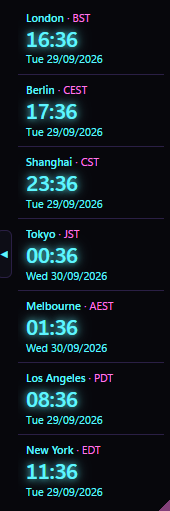
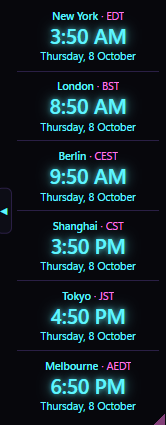
Bring the documents and the site up to the map-ordered clocks
The site shows the clocks west to east in new screenshots, with alt text and the home page card to match; ARCHITECTURE.md, TESTING.md and DECISIONS-TRADEOFFS.md are checked against the code; VERSION moves to the next minor and the site is stamped from it.

diff --git a/docs/index.html b/docs/index.html
@@ -46,7 +46,7 @@
     <div class="wrap hero">
         <div>
             <p class="eyebrow">
-                <span class="pill">v<!--VERSION-->2.9.0<!--/VERSION--></span>
+                <span class="pill">v<!--VERSION-->2.10.0<!--/VERSION--></span>
                 <span class="pill">Windows</span>
                 <span class="pill">macOS</span>
                 <span class="pill">Linux</span>
@@ -69,13 +69,13 @@
         <p class="kicker">A look</p>
         <h2>Every place, one glance.</h2>
         <figure class="shot-wide">
-            <img src="screenshots/screenshot.png" width="1171" height="753"
-                alt="TimeRibbon as a horizontal ribbon of analogue clocks in the Indigo colour scheme, dark, for London, Berlin, Shanghai, Tokyo, Melbourne, Los Angeles and New York, each with its zone abbreviation and its date in numbers, Tokyo and Melbourne a day ahead of the rest. Below it the sun map is pulled out: a world map lit where it is day and dark with city lights where it is night, each clock's city marked with a red dot and its name. The handle in its own lane at the ribbon's foot shows an upward arrow to put the map back; the resize grip sits in the ribbon's corner.">
+            <img src="screenshots/screenshot.png" width="862" height="572"
+                alt="TimeRibbon as a horizontal ribbon of analogue clocks in the Indigo colour scheme, dark, running west to east: New York, London, Berlin, Shanghai, Tokyo and Melbourne, each with its zone abbreviation and its date in words. Below it the sun map is pulled out: a world map lit where it is day and dark with city lights where it is night, each clock's city marked with a red dot and its name, the dots in the same order as the clocks above them. The handle in its own lane at the ribbon's foot shows an upward arrow to put the map back.">
         </figure>
         <div class="shot">
             <figure>
-                <img src="screenshots/screenshot2.png" width="170" height="511"
-                    alt="Seven places as small digital clocks on a vertical ribbon in the Neon colour scheme, glowing cyan times on near black: London, Berlin, Shanghai, Tokyo and Melbourne, with Tokyo and Melbourne already on the next day, then Los Angeles and New York. The sun map's handle waits at the ribbon's left side with its arrow pointing out; the resize grip sits in the bottom corner.">
+                <img src="screenshots/screenshot2.png" width="166" height="425"
+                    alt="Six places as small digital clocks on a vertical ribbon in the Neon colour scheme, glowing cyan 12-hour times centred in each cell on near black, west to east from the top: New York, London, Berlin, Shanghai, Tokyo and Melbourne. The sun map's handle waits at the ribbon's left side with its arrow pointing out; the resize grip sits in the bottom corner.">
             </figure>
             <div class="two-col">
                 <div class="card">
@@ -83,17 +83,18 @@
                     <ul>
                         <li><strong>Two looks, one ribbon:</strong> analogue in Indigo,
                             horizontal, with the sun map pulled out below it; small digital
-                            in Neon, vertical, its map put away. Style, colour and
+                            in Neon, vertical, 12-hour, its map put away. Style, colour and
                             orientation come from the menus or Settings; size from Settings; the
                             grip in the corner resizes the clocks by hand.</li>
                         <li><strong>The sun map:</strong> day and night as they stand,
                             city lights on the night side, each clock's city in red. The
                             arrow in its own lane along the ribbon slides it out and back.</li>
-                        <li><strong>London first,</strong> then Berlin, Shanghai, Tokyo and
-                            Melbourne as the ribbon heads east.</li>
-                        <li><strong>The Americas last,</strong> since they are behind UTC.</li>
-                        <li><strong>Different days:</strong> every clock keeps its own date.
-                            In both, Tokyo and Melbourne are already on the next day.</li>
+                        <li><strong>West to east, like the map:</strong> New York, London,
+                            Berlin, Shanghai, Tokyo and Melbourne, the clocks in the same order
+                            as their dots.</li>
+                        <li><strong>Its own date each:</strong> every clock keeps the weekday
+                            and date of its place, so near midnight neighbours can be a day
+                            apart.</li>
                     </ul>
                 </div>
                 <div class="card">

diff --git a/docs/download.html b/docs/download.html
@@ -43,7 +43,7 @@
     <section class="wrap" id="download">
         <p class="kicker">Download</p>
         <h2>Install it for yourself.</h2>
-        <span class="dl-version" id="dl-version">Version <!--VERSION-->2.9.0<!--/VERSION--></span>
+        <span class="dl-version" id="dl-version">Version <!--VERSION-->2.10.0<!--/VERSION--></span>
         <!--
             The button points at GitHub's releases/latest/download redirect, which always
             serves the newest release's file. The name carries no version, so the link

diff --git a/ARCHITECTURE.md b/ARCHITECTURE.md
@@ -67,14 +67,14 @@ page) read the kit Go builds against, through `go list -m`; `page_api_test.go` r
   - `clock`: an instant and a zone become what a cell shows (the time and the zone mark as the
     kit's `localtime` writes them, the date in the chosen `DateFormat`, the hand angles); a label's
     default from its zone, capped by the kit's `ribbon.Label`; `Samples` writes every time and date a
-    cell can show, for the page to measure (FR-620). The next minute boundary and the order east from
-    Greenwich are `localtime`'s too.
+    cell can show, for the page to measure (FR-620). The next minute boundary is `localtime`'s too.
   - `settings`: the user's choices as one value, every operation answering a new one: the kit's
     `ribbon.Choices` embedded, so they read as its own fields, then the clocks' style, size, formats,
     sun map, pull out and the clocks themselves. The settings file is written exactly as before the
     split (NFR-C-1).
   - `sun`: the subsolar point from NOAA's equations (FR-906), checked against NOAA's values in
-    `testdata`.
+    `testdata`; `Meridian`, the longitude a UTC offset keeps, for ordering a zone with no city
+    (FR-102).
 - **Application** (`internal/application`): one `Service` over its ports in `ports.go` (`Store`,
   `Zones`, `Clock`, `IDs`, the kit's `arranger.Monitors` and `arranger.Neighbours`, `StartupEntry`
   and the kit's `release.Source`). It builds the snapshot, edits clocks, searches places
@@ -87,8 +87,7 @@ page) read the kit Go builds against, through `go list -m`; `page_api_test.go` r
   notice (FR-707). The snapshot orders cells west to east (`westToEast`) by the longitude of each
   clock's city in the catalogue, the same city the sun map marks; a zone with no city stands at the
   meridian its offset keeps (`sun.Meridian`). Ties keep their stored order and an unshowable clock
-  goes last. A change that cannot be saved stays in
-  effect with a notice (FR-707).
+  goes last (FR-102). A change that cannot be saved stays in effect with a notice (FR-707).
 - **Infrastructure** (`internal/infrastructure`): `store` (the settings file) and `zones` (the place
   catalogue and the zone rules). Everything else it reaches (displays, sign-in, the log, the data
   folder, the desktop, the shared ribbon folder, the update check) is the kit's.

diff --git a/TESTING.md b/TESTING.md
@@ -50,12 +50,12 @@ figure with the fraction dropped, so it fails once cover is lost.
 which runs no statement. The four tools are mains that hand `internal/product` to the kit's
 `delivery` package, where their work and its tests live.
 
-Every figure is the Windows build's, which `test.ps1` measures. That build compiles 127 Go test
+Every figure is the Windows build's, which `test.ps1` measures. That build compiles 128 Go test
 functions, counted from the test files `go list` selects, each running once with no subtests.
 Twenty-five are the structural tests, which read the source and are the same on every platform;
 [ARCHITECTURE.md](ARCHITECTURE.md) lists each against its rule. `TestA1Point0SettingsFileIsReadWhole`
 in `store` holds the settings file's promise (NFR-C-1); `contrast_test.go` holds NFR-U-1 in Go because
-Vitest hands a CSS import back empty. The macOS and Linux builds compile 126
+Vitest hands a CSS import back empty. The macOS and Linux builds compile 127
 ([On macOS and Linux](#on-macos-and-linux)).
 
 ### The front end
@@ -110,7 +110,7 @@ says, with the page built. The kit's own macOS and Linux checks are in its TESTI
 | What | macOS | Linux |
 |---|---|---|
 | Tags | `desktop,production` | `desktop,production,webkit2_41` |
-| Go test functions | 126 | 126 |
+| Go test functions | 127 | 127 |
 
 With the platform's tags in `TAGS`, run each and read its exit code:
 

diff --git a/DECISIONS-TRADEOFFS.md b/DECISIONS-TRADEOFFS.md
@@ -111,7 +111,9 @@ the meridian its offset keeps. Ties keep the order they were added. Oliver's rul
   New York ahead of London; east from Greenwich by offset, which ran London first and New York last
   while the map drew New York on the left, so the cells and the dots read in different orders.
 - **Gains:** the ribbon reads the same way as the map and never needs tidying.
-- **Costs:** clocks cannot be arranged by hand.
+- **Costs:** clocks cannot be arranged by hand; the order follows the place rather than the hour, so
+  two clocks showing the same time can stand apart (Madrid keeps Paris's time yet stands west of
+  London).
 
 ### A zone's letters where it has them, else its offset
 
